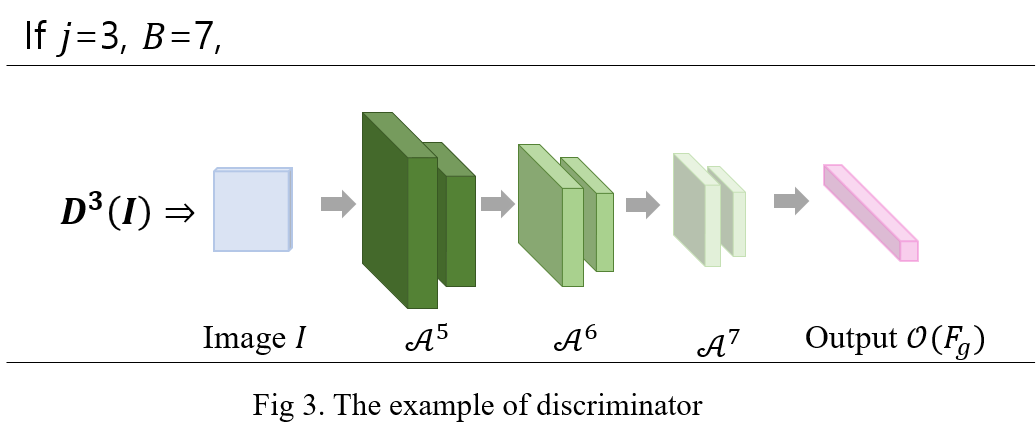
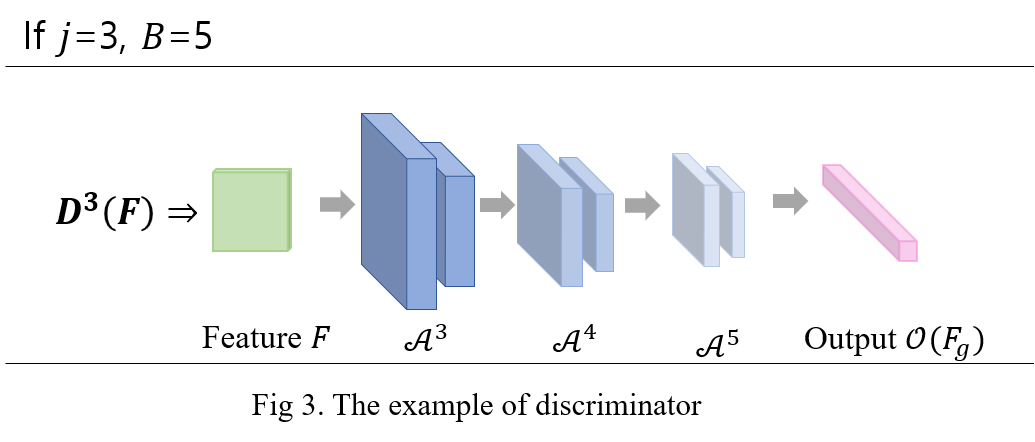
upload post

diff --git a/_posts/2020-08-24-Data_Free_Knowledge_Amalgamation_via_Group-Stack_Dual-GAN.md b/_posts/2020-08-24-Data_Free_Knowledge_Amalgamation_via_Group-Stack_Dual-GAN.md
@@ -24,7 +24,7 @@ For this, the main idea is to construct the group-stack generative adversarial n
 The architecture of Dual-GAN is shown in Fig 1.
 
 
-![1](https://da2so.github.io/assets/post_img/2020-08-24-Data_Free_Knowledge_Amalgamation_via_Group-Stack_Dual-GAN/1.png){: .mx-auto.d-block width="70%" :}
+![1](https://da2so.github.io/assets/post_img/2020-08-24-Data_Free_Knowledge_Amalgamation_via_Group-Stack_Dual-GAN/1.png){: .mx-auto.d-block width="70%" height="70%" :}
 
 
 ## 2. Problem Definiton
@@ -40,7 +40,7 @@ The authors aim to explore a more effective approach to train the student networ
 * Feature maps in the <span style="color:DodgerBlue">$b$</span>-th block of the <span style="color:DodgerBlue">$m$</span>-th pre-trained teacher: <span style="color:DodgerBlue">$F^b_m$</span>
 
 
-The teacher networks are in the constraint: <span style="color:DodgerBlue">$Y_{cst} \subseteq \cup^M_\{ m=1 \} Y_m $</span>, which reveals that either the full or the subset of classification labels is alternative for making up the customized task set.
+The teacher networks are in the constraint: <span style="color:DodgerBlue">$Y_{cst} \subseteq \bigcup^M_\{ m=1 \} Y_m $</span>, which reveals that either the full or the subset of classification labels is alternative for making up the customized task set.
 
 
 ## 3. Method
@@ -82,7 +82,7 @@ F^j_g=G^j(F^\{ j-1 \}_g) \; 1 < j \leq B,
 \\]
 </span>
 
-![2](https://da2so.github.io/assets/post_img/2020-08-24-Data_Free_Knowledge_Amalgamation_via_Group-Stack_Dual-GAN/2.png){: .mx-auto.d-block width="50%" height="80%" :}
+![2](https://da2so.github.io/assets/post_img/2020-08-24-Data_Free_Knowledge_Amalgamation_via_Group-Stack_Dual-GAN/2.png){: .mx-auto.d-block width="60%" height="80%" :}
 
 
 when <span style="color:DodgerBlue">$j=B$</span>, the output of the <span style="color:DodgerBlue">$B$</span>-th group <span style="color:DodgerBlue">$G^B$</span> is <span style="color:DodgerBlue">$F^B_g$</span>, which is also thought as the final generated image <span style="color:DodgerBlue">$\mathcal{I}_g$</span>.
@@ -100,11 +100,11 @@ where <span style="color:DodgerBlue">$1 \leq j \leq B$</span> and <span style="c
 
 <span style="color:DodgerBlue">
 \\[
-D^j \leftarrow \cup^j_{i=1} \\{ \mathcal{A}^{B-j+i} \\} \quad \cdots Eq. (4)
+D^j \leftarrow \bigcup^j_{i=1} \\{ \mathcal{A}^{B-j+i} \\} \quad \cdots Eq. (4)
 \\]
 </span>
 
-![3](https://da2so.github.io/assets/post_img/2020-08-24-Data_Free_Knowledge_Amalgamation_via_Group-Stack_Dual-GAN/3.png){: .mx-auto.d-block width="50%" :}
+![3](https://da2so.github.io/assets/post_img/2020-08-24-Data_Free_Knowledge_Amalgamation_via_Group-Stack_Dual-GAN/3.png){: .mx-auto.d-block width="60%" :}
 
 During the training for the group pair <span style="color:DodgerBlue">$\\{ G^j, D^j \\}$</span>, only <span style="color:DodgerBlue">$G^j$</span> is optimized with discriminator <span style="color:DodgerBlue">$D^j$</span> is fixed, whose output is for classifying multiple labels. We make use of several losses to constraint the output of <span style="color:DodgerBlue">$D^j$</span> to motivate the real data's response. 
 
@@ -147,4 +147,44 @@ L_{gan}= L_\{oh\} + \alpha L_a + \beta L_\{ie\} + \gamma L_\{dis \}, \quad \cdot
 where <span style="color:DodgerBlue">$\alpha, \beta $</span> and <span style="color:DodgerBlue">$\gamma $</span> are the hyperparameters for balancing different loss items. <span style="color:DodgerBlue">$L_a$</span> and <span style="color:DodgerBlue">$L_{ie}$</span> are the activation loss and infromation entropy loss functions and described in [here](https://da2so.github.io/2020-08-13-Data_Free_Learning_of_Student_Networks/).
 
 #### <span style="color:gray"> 3.1.2 Multiple Targets </span>
+
+Since the TargetNet is customized to perform multi-label classifications learning from multiple teachers, the generator should generate samples containing multiple targets. As a result, for the <span style="color:DodgerBlue">$j $</span>-th group generator <span style="color:DodgerBlue">$G^j$</span>, authors construct multiple group-stack discriminators <span style="color:DodgerBlue">$\\{ D^j_1, \cdots, D^j_M \\}$</span> in concert with teachers specializing in different task sets by Eq. (4).
+
+In order to amalgamate multi-knowledge into the generator by <span style="color:DodgerBlue">$\\{ D^j_m \\}^M_{m=1} $</span>, the teacher-level filtering is applied to <span style="color:DodgerBlue">$F^j_g $</span>. And this filtering is conducted as:
+
+<span style="color:DodgerBlue">
+\\[
+F^{f,m}_g=f^j_m (F^j_g), \quad \cdots Eq. (9)
+\\]
+</span>
+
+where the filtering function <span style="color:DodgerBlue">$f^j_m$</span> is realized by a light learnable module consisting of a global pooling layer and two fully connected layers. <span style="color:DodgerBlue">$F^{j,m}_g$</span> is the filtered generated features that approaches the output feature distribution of <span style="color:DodgerBlue">$\mathcal{A}^{B-j}_m$</span>. The output of discriminator is donated as  <span style="color:DodgerBlue">$\mathcal{O}_m (F^j_g) = D^j_m (F^{j,m}_g$</span>.
+
+
+![3](https://da2so.github.io/assets/post_img/2020-08-24-Data_Free_Knowledge_Amalgamation_via_Group-Stack_Dual-GAN/3.png){: .mx-auto.d-block width="80%" :}
+
+The for the generated features  <span style="color:DodgerBlue">$F^j_g$</span> from  <span style="color:DodgerBlue">$G^j$</span>, we collect from the multi-discriminator the  <span style="color:DodgerBlue">$M$</span> prediction sets  <span style="color:DodgerBlue">$\\{ \mathcal{O}_1(F^j_g), \cdots , \mathcal{O}_M (F^j_g) \\}$</span>, which are:
+
+<span style="color:DodgerBlue">
+\\[
+\mathcal{O}_g (F^j_g) = \bigcup^M_{m=1} \mathcal{O}_m ( F^j_g ), \quad \cdots Eq. (10)
+\\]
+</span>
+
+which is treated as new input to the loss Eq. 8, then <span style="color:DodgerBlue">$L^i_{gan}$</span> is the adversarial loss for each <span style="color:DodgerBlue">$G^j$</span>. Despite the fact that the generated features should appear like the ones extracted
+from the real data, they should also lead to the same predictions from the same input span style="color:DodgerBlue">$z$</span>. Thus, the stack-generator <span style="color:DodgerBlue">$\\{ G^1, \cdots, G^B \\}$</span> can be jointly optimized by the final loss:
+
+
+<span style="color:DodgerBlue">
+\\[
+L_{joint}= L^B_\{gan\} + \frac{1}{B-1} \sum^{B-1}_\{ j=1 \} l(\mathcal{O}_g (F^j_g), \mathcal{O}_g (\mathcal{I}_g)), \quad \cdots Eq. (11)
+\\]
+</span>
+
+where the adversarial loss <span style="color:DodgerBlue">$L_{gan}$</span> only calculates from the last group <span style="color:DodgerBlue">$\\{ G^B, D^B \\}$</span>. The rest part of the loss is the cross-entropy loss that restrains the intermediate features generated from <span style="color:DodgerBlue">$G^1$</span> to <span style="color:DodgerBlue">$G^{B-1}$</span> to make the same prediction as <span style="color:DodgerBlue">$\mathcal{I}_g$</span>, which offsets the adversarial loss <span style="color:DodgerBlue">$\\{ L^1_{gan}, \cdots , L^{B-1}_\{ gan \} \\}$</span>.
+
+
+By minimizing <span style="color:DodgerBlue">$L_{joint}$</span>, the optimal generator <span style="color:DodgerBlue">$G$</span> can synthesis the images that have the similar activations as the real data fed to the teacher.
+
+
 
